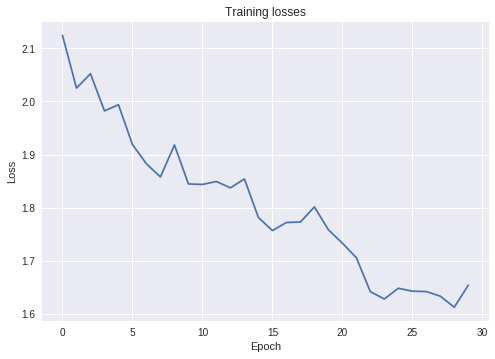
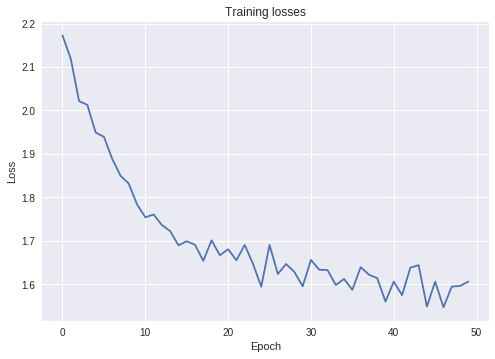
1

diff --git a/231_0_Lenet_CIFAR10/lenet_tf_template.py b/231_0_Lenet_CIFAR10/lenet_tf_template.py
@@ -6,7 +6,7 @@ import math
 import matplotlib.pyplot as plt
 from PIL import Image
 
-USE_GPU = False
+USE_GPU = True
 
 ###################################################################################################
 #                                            PREAMBLE                                             #
@@ -169,25 +169,20 @@ def convnet_forward(x, params):
     x3_3_relu = tf.nn.relu(x3_2_conv)
     x3_4_pad = tf.pad(x3_3_relu, [[0, 0], [1, 1], [1, 1], [0, 0]], mode='CONSTANT', constant_values=0)
     x3_5_pool = tf.nn.avg_pool(x3_4_pad, ksize=[1, 3, 3, 1], strides=[1, 2, 2, 1], padding='VALID')
-    
     ############################################################################
     # TODO: (1.a), (2.a) Implement the remaining forward pass.                 #
     ############################################################################
     # block 4
-    x4_1_pad = tf.pad(x3_5_pool, [[0, 0], [2, 2], [2, 2], [0, 0]], mode='CONSTANT', constant_values=0)
     x4_2_conv = tf.nn.conv2d(x3_5_pool, conv_w4, [1, 1, 1, 1], padding='VALID') + conv_b4
-    x4_3_relu = tf.nn.relu(x4_2_conv)  
+    x4_3_relu = tf.nn.relu(x4_2_conv)
 
-    x5_1_pad = tf.pad(x4_3_relu, [[0, 0], [2, 2], [2, 2], [0, 0]], mode='CONSTANT', constant_values=0)
     x5_2_conv = tf.nn.conv2d(x4_3_relu, conv_w5, [1, 1, 1, 1], padding='VALID') + conv_b5
     x5_1_conv = tf.nn.softmax(x5_2_conv)
-    print(x5_1_conv)
     ############################################################################
     #                              END OF YOUR CODE                            #
     ############################################################################
 
     logits = flatten(x5_1_conv)
-    print(logits)
 
     return logits
 
@@ -358,7 +353,6 @@ def get_accuracy(sess, dset, x, logits, is_training=None):
     for x_batch, y_batch in dset:
         feed_dict = {x: x_batch, is_training: 0}
         scores_np = sess.run(logits, feed_dict=feed_dict)
-
         y_pred = scores_np.argmax(axis=1)
         num_samples += x_batch.shape[0]
         num_correct += (y_pred == y_batch).sum()
@@ -371,7 +365,7 @@ def get_accuracy(sess, dset, x, logits, is_training=None):
 # TODO: (1.b) Adjust learning-rate and number of epochs.                   #
 ############################################################################
 learning_rate = 5e-2
-epochs = 10
+epochs = 50
 ############################################################################
 #                             END OF YOUR CODE                             #
 ############################################################################
@@ -382,9 +376,25 @@ params, params_val, train_losses, test_accuracies = train(convnet_forward, convn
 # TODO: (1.c) Plot.                                                        #
 ############################################################################
 
-
+plt.figure()
+plt.title('Training losses')
+plt.xlabel('Epoch')
+plt.ylabel('Loss')
+plt.plot(train_losses)
 plt.savefig('1_loss.png')
+plt.show()
+plt.grid(None)
+plt.close()
+
+plt.figure()
+plt.title('Tesing accuracies')
+plt.xlabel('Epoch')
+plt.ylabel('Accuracy')
+plt.plot(test_accuracies)
 plt.savefig('2_accuracy.png')
+plt.show()
+plt.grid(None)
+plt.close()
 
 
 ############################################################################
@@ -456,7 +466,11 @@ with tf.Session() as sess:
     ############################################################################
     img = Image.fromarray(grid_val[0], 'RGB')
     img.save('3_kernels.jpeg')
-
+    plt.imshow(img)
+    plt.grid(None)
+    plt.axis('off')
+    plt.show()
+    
 
 ###################################################################################################
 #                                              PART 3                                             #
@@ -482,10 +496,7 @@ def conv1_activations(x, conv_w1, conv_b1):
     ############################################################################
     # block 1
     x1_1_pad = tf.pad(x, [[0, 0], [2, 2], [2, 2], [0, 0]], mode='CONSTANT', constant_values=0)
-    x1_2_conv = tf.nn.conv2d(x1_1_pad, conv_w1, [1, 1, 1, 1], padding='VALID') + conv_b1
-    x1_3_pad = tf.pad(x1_2_conv, [[0, 0], [1, 1], [1, 1], [0, 0]], mode='CONSTANT', constant_values=0)
-    x1_4_pool = tf.nn.max_pool(x1_3_pad, ksize=[1, 3, 3, 1], strides=[1, 2, 2, 1], padding='VALID')
-    output = tf.nn.relu(x1_4_pool)
+    output = tf.nn.conv2d(x1_1_pad, conv_w1, [1, 1, 1, 1], padding='VALID') + conv_b1
     ############################################################################
     #                             END OF YOUR CODE                             #
     ############################################################################
@@ -493,7 +504,7 @@ def conv1_activations(x, conv_w1, conv_b1):
 
 
 image = get_X_train_sample()
-plt.imshow(np.squeeze(image).astype(int), interpolation='nearest')
+plt.imshow(np.squeeze(image).astype(np.uint8), interpolation='nearest')
 plt.figure(1, figsize=(10, 10))
 plt.axis('off')
 plt.savefig('4_data.png', bbox_inches='tight')
